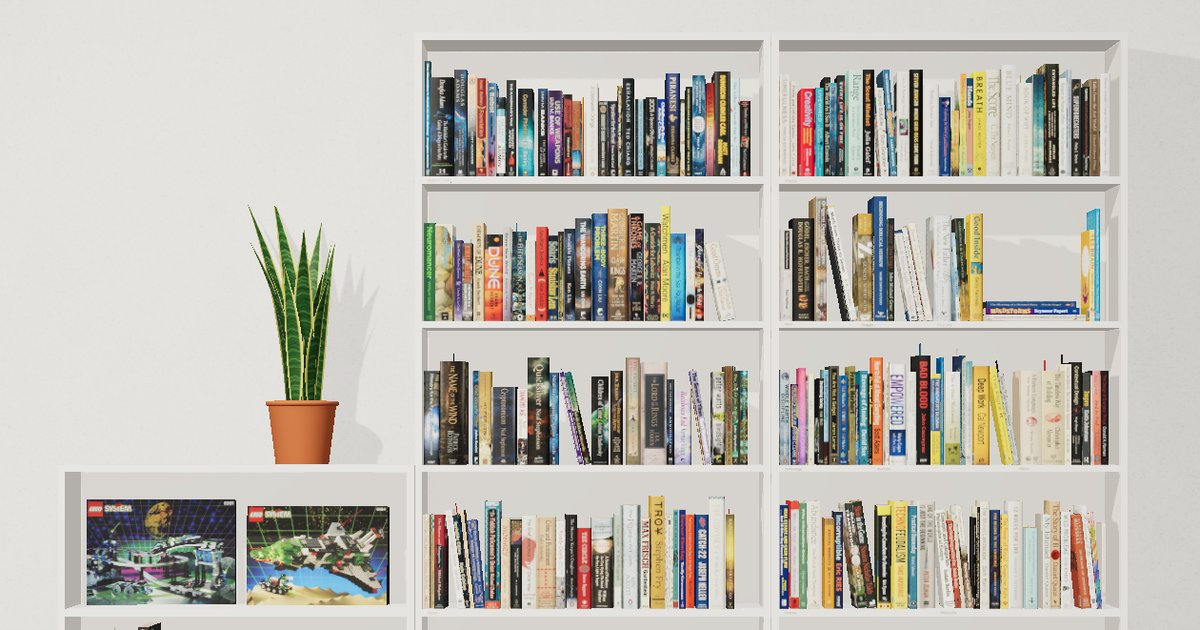
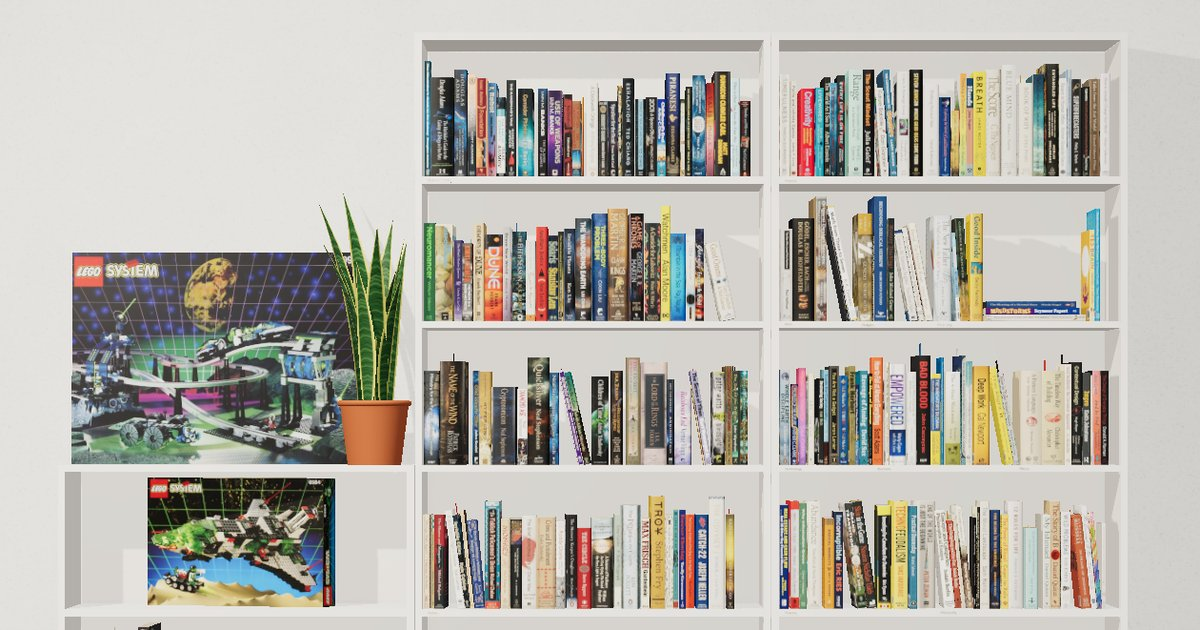
Lego boxes at real size with generated side panels
Box dimensions from BrickLink (6991 is 65x48x12 cm, so it stands on top of
the low Billy against the wall). gen_box_sides.py has Gemini draw each box's
top and end panels in the early-90s LEGO SYSTEM style from the front art,
with trimming and proportion checks; boxes are textured on front, top and
both ends, and two are angled so an end shows.

Changed region(s): [[0.0617, 0.3317, 0.3392, 0.9651]]

diff --git a/poc/preview/index.html b/poc/preview/index.html
@@ -817,18 +817,25 @@ const notes = [], pivots = [], layoutProps = [];
 // Box art from preview/props/lego (see fetch_lego.py). Boxes stand on their long edge, leaning back a little,
 // big ones against the back panel and smaller ones in front.
 const legoSets = await fetch('props/lego/manifest.json').then(r => r.ok ? r.json() : []).catch(() => []);
-const boxSide = new THREE.MeshStandardMaterial({ color: 0x17171c, roughness: 0.55 });
-const boxTop = new THREE.MeshStandardMaterial({ color: 0x232329, roughness: 0.6 });
-async function legoBox(set, height) {
-  const img = await loadImg(set.file);
-  const tex = img ? new THREE.CanvasTexture(img) : null;
-  if (tex) { tex.colorSpace = THREE.SRGBColorSpace; tex.anisotropy = maxAniso; }
-  const w = height * set.aspect, d = Math.max(45, Math.min(90, w * 0.17));
-  const front = new THREE.MeshStandardMaterial({ map: tex, roughness: 0.42 });
-  const m = new THREE.Mesh(new THREE.BoxGeometry(w, height, d), [boxSide, boxSide, boxTop, boxSide, front, boxSide]);
-  m.geometry.translate(0, height / 2, -d / 2);                     // origin at the bottom front edge
+const boxDark = new THREE.MeshStandardMaterial({ color: 0x17171c, roughness: 0.55 });   // back and bottom (unseen)
+async function boxTex(url, rotate) {
+  const img = url ? await loadImg(url) : null;
+  if (!img) return null;
+  const t = new THREE.CanvasTexture(img);
+  t.colorSpace = THREE.SRGBColorSpace; t.anisotropy = maxAniso;
+  if (rotate) { t.center.set(0.5, 0.5); t.rotation = Math.PI / 2; }     // end panels run up the box's height
+  return t;
+}
+// A real-size box (set.dims = [width, height, depth] in mm): front = box art, top and ends = generated panels.
+async function legoBox(set) {
+  const [w, h, d] = set.dims;
+  const [front, top, end] = await Promise.all([boxTex(set.file), boxTex(set.top), boxTex(set.end, true)]);
+  const mat = (map, rough = 0.42) => map ? new THREE.MeshStandardMaterial({ map, roughness: rough }) : boxDark;
+  const endMat = mat(end);
+  const m = new THREE.Mesh(new THREE.BoxGeometry(w, h, d), [endMat, endMat, mat(top), boxDark, mat(front), boxDark]);
+  m.geometry.translate(0, h / 2, -d / 2);                          // origin at the bottom front edge
   m.castShadow = m.receiveShadow = true;
-  m.userData.size = { w, h: height, d };
+  m.userData.size = { w, h, d };
   return m;
 }
 
@@ -908,26 +915,26 @@ function snakePlant(rng) {
   const low = cases.find(c => c.low);
   if (low) {
     let r = 1234; const prng = () => ((r = (r * 16807) % 2147483647) / 2147483647);
-    const put = (obj, shelf, x, z, rotY = 0) => {
-      obj.position.set(low.x0 + x, baseY(low, shelf), z); obj.rotation.y = rotY; scene.add(obj);
-    };
     const last = low.N - 1;
     const bySet = Object.fromEntries(legoSets.map(x => [x.set, x]));
-    // [set, shelf, x (left edge), z (front face), box height, lean back (rad), turn (rad)]
+    // [set, where (shelf index, or 'top' of the case), x of left edge, z of front face, lean back, turn] — real sizes
     const layout = [
-      ['6991', 0, 20, -225, 240, 0.07, 0.03], ['6984', 0, 385, -215, 225, 0.06, -0.05],
-      ['6957', 1, 455, -170, 195, 0.05, -0.07],
-      ['6973', last, 150, -210, 250, 0.07, 0.04],
+      ['6991', 'top', -5, -152, 0.03, 0.0],                          // 65 cm Monorail box: too tall for a shelf
+      ['6984', 0, 150, -150, 0.0, -0.32],                           // turned so its end panel shows
+      ['6973', last, 12, -200, 0.03, 0.02], ['6957', last, 395, -95, 0.0, -0.28],
     ];
-    for (const [num, shelf, x, z, h, lean, turn] of layout) {
+    const caseTop = plinth + low.H + board;
+    for (const [num, where, x, z, lean, turn] of layout) {
       if (!bySet[num]) continue;
-      const box = await legoBox(bySet[num], h);
+      const box = await legoBox(bySet[num]);
       const holder = new THREE.Group();
-      holder.add(box); box.rotation.x = -lean;                     // top tips back toward the wall
-      put(holder, shelf, x + box.userData.size.w / 2, z, turn);
+      holder.add(box); box.rotation.x = -lean;                       // top tips back toward the wall
+      holder.position.set(low.x0 + x + box.userData.size.w / 2, where === 'top' ? caseTop : baseY(low, where), z);
+      holder.rotation.y = turn;
+      scene.add(holder);
     }
     const plant = snakePlant(prng);
-    plant.position.set(low.x0 + inner * 0.68, plinth + low.H + board, -depth / 2 - 10);
+    plant.position.set(low.x0 + inner * 0.9, plinth + low.H + board, -74);   // in front of the Monorail box's corner
     scene.add(plant);
   }
 }

diff --git a/poc/gen_box_sides.py b/poc/gen_box_sides.py
@@ -1,0 +1,115 @@
+"""Generate the side panels of the Lego set boxes on the low Billy with Gemini, from each box's front art.
+
+For each set in preview/props/lego/manifest.json writes preview/props/lego/<set>_top.jpg (the long top panel,
+width x depth) and <set>_end.jpg (the short end panel, height x depth), both flat and straight-on.
+Usage: uv run --with pillow --with numpy gen_box_sides.py [set ...] [--force]
+"""
+import base64
+import io
+import json
+import os
+import sys
+import urllib.request
+from pathlib import Path
+
+import numpy as np
+from PIL import Image
+
+HERE = Path(__file__).resolve().parent
+DIR = HERE / "preview/props/lego"
+MODEL = "gemini-3.1-flash-image"
+
+
+def load_env():
+    for line in (HERE.parent / ".env").read_text().splitlines():
+        if "=" in line and not line.startswith("#"):
+            k, v = line.split("=", 1)
+            os.environ.setdefault(k.strip(), v.strip().strip('"'))
+
+
+def gemini(img_bytes, text):
+    body = {"contents": [{"parts": [{"inline_data": {"mime_type": "image/jpeg", "data": base64.b64encode(img_bytes).decode()}},
+                                    {"text": text}]}],
+            "generationConfig": {"responseModalities": ["IMAGE"], "imageConfig": {"aspectRatio": "21:9"}}}
+    req = urllib.request.Request(f"https://generativelanguage.googleapis.com/v1beta/models/{MODEL}:generateContent",
+                                 data=json.dumps(body).encode(),
+                                 headers={"Content-Type": "application/json", "x-goog-api-key": os.environ["GEMINI_API_KEY"]})
+    resp = json.load(urllib.request.urlopen(req, timeout=180))
+    for part in resp["candidates"][0]["content"]["parts"]:
+        data = part.get("inlineData") or part.get("inline_data")
+        if data:
+            return Image.open(io.BytesIO(base64.b64decode(data["data"]))).convert("RGB")
+    raise RuntimeError("no image in response")
+
+
+def trim(im, ratio):
+    """Crop to the panel. The backdrop is whatever colour the corners are (white, or a light grey with a shadow), so
+    'ink' is distance from that. Rejects strips that touch the image edge (cut off) or have the wrong proportions."""
+    a = np.asarray(im).astype(int)
+    H, W = a.shape[:2]
+    corners = np.concatenate([a[:6, :6].reshape(-1, 3), a[:6, -6:].reshape(-1, 3), a[-6:, :6].reshape(-1, 3), a[-6:, -6:].reshape(-1, 3)])
+    bg = np.median(corners, axis=0)
+    ink = np.abs(a - bg).max(axis=2) > 45
+    rows = np.where(ink.mean(axis=1) > 0.6)[0]
+    if len(rows) < 10:
+        return None, "no panel"
+    # the longest run of panel rows (a soft shadow under the strip is a separate, fainter band)
+    runs, start = [], rows[0]
+    for i in range(1, len(rows) + 1):
+        if i == len(rows) or rows[i] != rows[i - 1] + 1:
+            runs.append((start, rows[i - 1])); start = rows[i] if i < len(rows) else None
+    y0, y1 = max(runs, key=lambda r: r[1] - r[0])
+    cols = np.where(ink[y0:y1 + 1].mean(axis=0) > 0.6)[0]
+    if cols[0] <= 3 or cols[-1] >= W - 4:
+        return None, "touches the image edge"
+    crop = im.crop((cols[0] + 2, y0 + 2, cols[-1] - 1, y1 - 1))
+    got = crop.width / crop.height
+    if not (ratio * 0.6 < got < ratio * 1.6):
+        return None, f"proportions {got:.1f} vs {ratio:.1f}"
+    return crop, None
+
+
+PROMPT = """This is the front of the box of LEGO set {set} "{name}" ({year_hint}LEGO SYSTEM Space). The real box is
+{w} cm wide, {h} cm tall and {d} cm deep.
+
+Draw the box's {which} panel ({pw} x {pd} cm, a long thin strip about {ratio:.1f} times longer than it is tall) as a
+flat, perfectly straight-on scan: no perspective, no shadows, no box edges or other faces, evenly lit printed cardboard.
+Lay it horizontally, centred, on a plain pure-white background with a clear white margin on all four sides (the
+whole strip must be visible, nothing cut off at the image edges).
+
+Design it the way LEGO printed these panels in the early 1990s, in the same graphic style and colours as the front:
+the same background (starfield / neon grid / landscape), the red LEGO logo with "SYSTEM", the set number {set},
+and a small picture of the model or a minifigure. Text must be crisp and correctly spelled. Do not invent other text."""
+
+
+def main():
+    load_env()
+    sets = json.loads((DIR / "manifest.json").read_text())
+    only = [a for a in sys.argv[1:] if not a.startswith("-")]
+    for s in sets:
+        if only and s["set"] not in only:
+            continue
+        w, h, d = (round(v / 10, 1) for v in s["dims"])
+        front = (DIR / f"{s['set']}.jpg").read_bytes()
+        for which, pw, pd in (("top", w, d), ("end", h, d)):
+            out = DIR / f"{s['set']}_{which}.jpg"
+            if out.exists() and "--force" not in sys.argv:
+                continue
+            im = None
+            for attempt in range(4):
+                text = PROMPT.format(set=s["set"], name=s["name"], year_hint=f"{s['year']} " if s.get("year") else "",
+                                     w=w, h=h, d=d, which="top" if which == "top" else "short end (side)",
+                                     pw=pw, pd=pd, ratio=pw / pd)
+                im, why = trim(gemini(front, text), pw / pd)
+                if im is not None:
+                    break
+                print(f"  {s['set']} {which}: rejected ({why}), retrying")
+            if im is None:
+                print(f"{s['set']} {which}: FAILED"); continue
+            im = im.resize((1024, max(64, round(1024 * pd / pw))), Image.LANCZOS)   # exact panel proportions
+            im.save(out, quality=86)
+            print(f"{s['set']} {which}: {im.size}")
+
+
+if __name__ == "__main__":
+    main()
